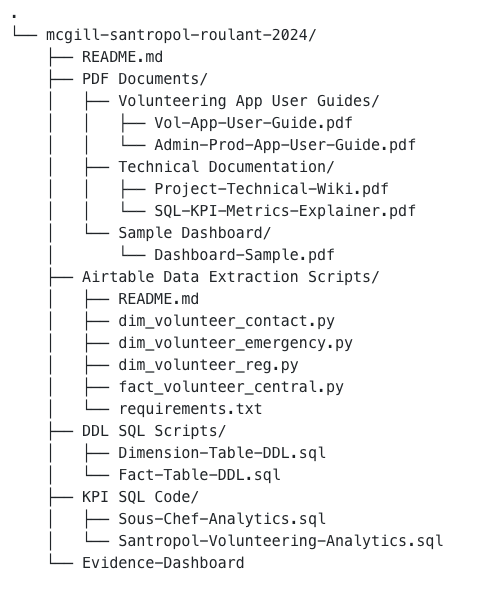
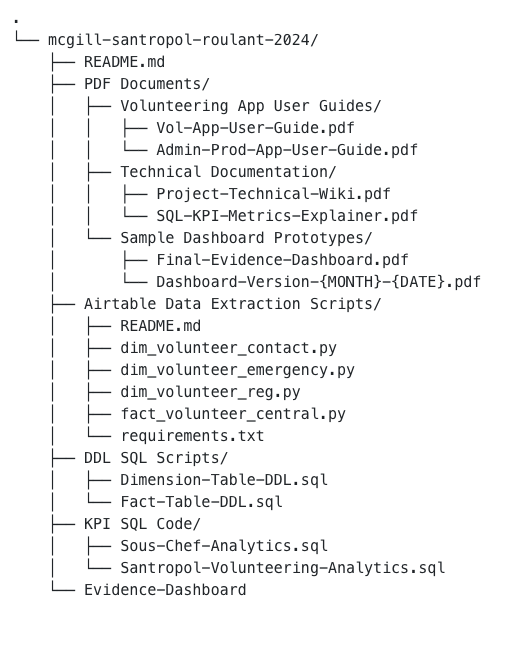
updating README and filetree

diff --git a/README.md b/README.md
@@ -40,7 +40,8 @@ This folder contains 3 folders nested within. Each one of these folders and the 
 
 * Final Sample Dashboard PDF: This PDF file contains a print-friendly version of the latest dashboard that is available on Evidence.   
   **Filename**: ***Final-Evidence-Dashboard.pdf***  
-* The other files in the folder are previous prototypes of the dashboard, and are named according to the date on which they were created.
+* The other files in the folder are previous prototypes of the dashboard, and are named according to the date on which they were created (as can be seen in the wildcard referenced in the below filename).
+  **Filename**: ***Dashboard-Version-{MONTH}-{DATE}.pdf***
 
 
 ### Code Files
